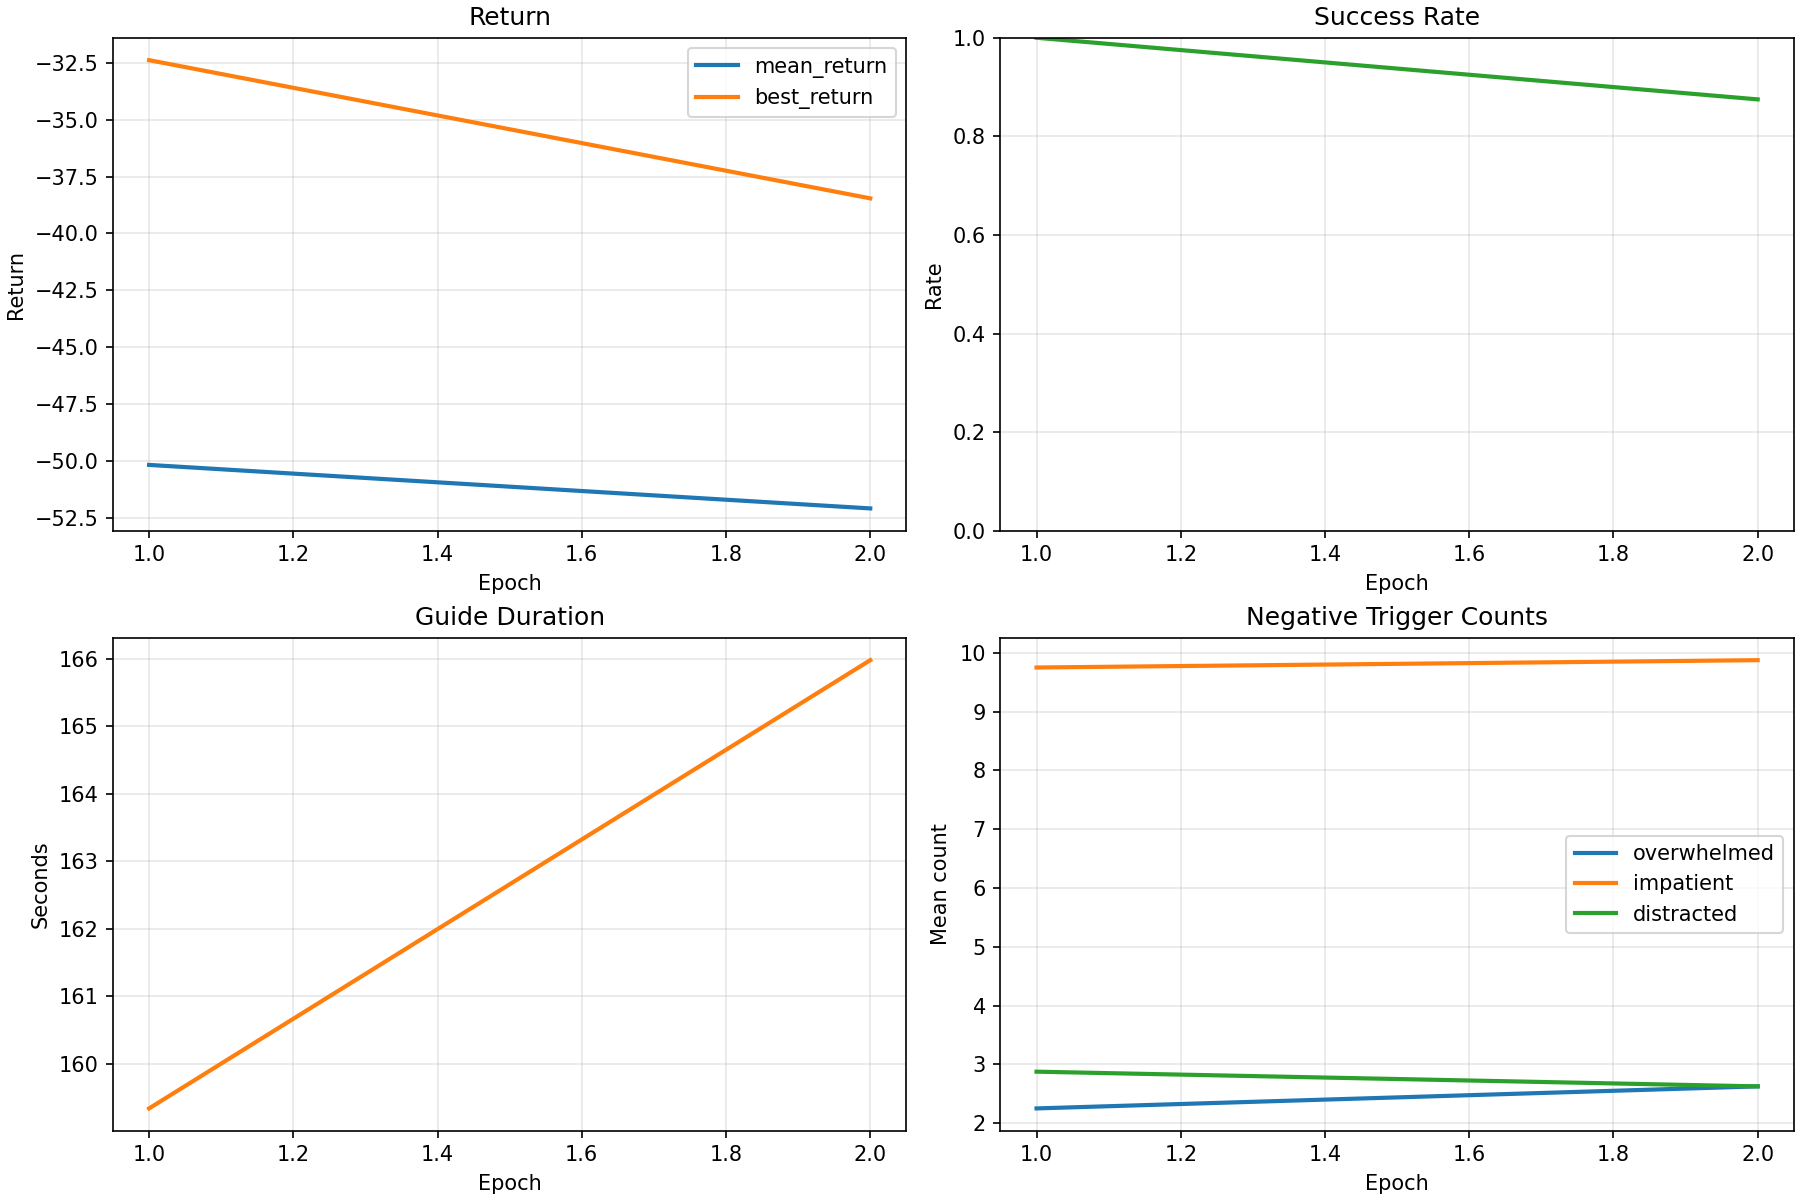
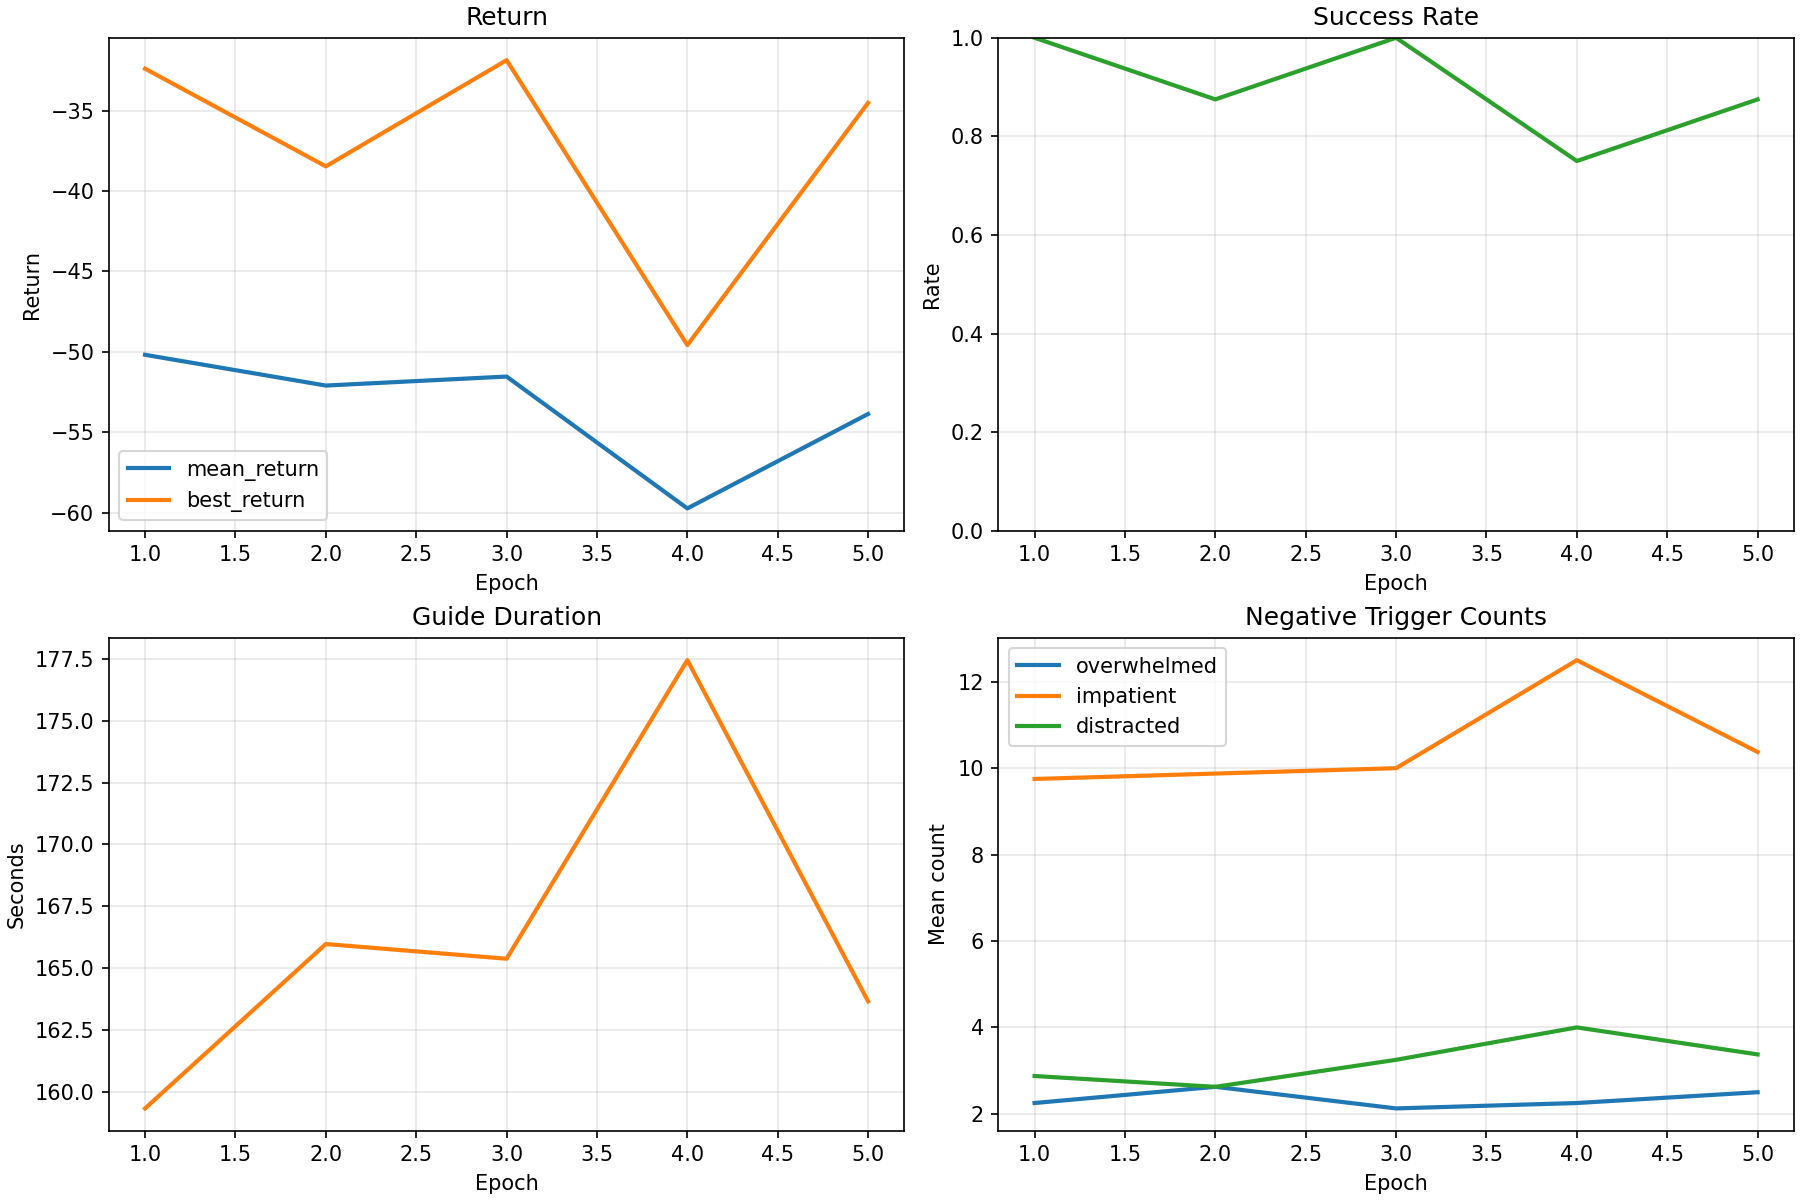
Move train_rwr to same path as test_env

diff --git a/museum_env_package/museum_env/test_train_rwr.py b/museum_env_package/museum_env/test_train_rwr.py
@@ -8,8 +8,9 @@ from unittest.mock import patch
 
 import numpy as np
 
-from museum_env.train_rwr import (
+from train_rwr import (
     DEFAULT_CSV_NAME,
+    DEFAULT_OUTPUT_DIR,
     DEFAULT_PLOT_NAME,
     EpisodeResult,
     ThetaEvaluation,
@@ -301,7 +302,7 @@ class TrainRwrTests(unittest.TestCase):
     def test_evaluate_theta_sample_aggregates_seeds_and_closes_env(self):
         theta = np.array([2.5, 3.5, 2.0, 0.7], dtype=np.float64)
 
-        with patch("museum_env.train_rwr.MuseumEnv", _FakeTrainingEnv):
+        with patch("train_rwr.MuseumEnv", _FakeTrainingEnv):
             evaluation = _evaluate_theta_sample((theta, (1, 2, 3), 15, False))
 
         self.assertAlmostEqual(evaluation.mean_return, -0.1, places=6)
@@ -328,9 +329,9 @@ class TrainRwrTests(unittest.TestCase):
             )
 
         with tempfile.TemporaryDirectory() as tmp_dir:
-            with patch("museum_env.train_rwr.ProcessPoolExecutor", _FakeExecutor):
+            with patch("train_rwr.ProcessPoolExecutor", _FakeExecutor):
                 with patch(
-                    "museum_env.train_rwr._evaluate_theta_sample",
+                    "train_rwr._evaluate_theta_sample",
                     side_effect=_fake_evaluate_theta_sample,
                 ):
                     metrics = train(
@@ -353,7 +354,7 @@ class TrainRwrTests(unittest.TestCase):
         with tempfile.TemporaryDirectory() as tmp_dir:
             output_dir = Path(tmp_dir) / "artifacts"
 
-            with patch("museum_env.train_rwr.MuseumEnv", _FakeTrainingEnv):
+            with patch("train_rwr.MuseumEnv", _FakeTrainingEnv):
                 exit_code = main(
                     [
                         "--epochs",
@@ -382,6 +383,12 @@ class TrainRwrTests(unittest.TestCase):
             self.assertEqual(rows[0]["epoch"], "1")
             self.assertIn("mean_return", rows[0])
             self.assertIn("success_rate", rows[0])
+
+    def test_default_output_dir_stays_under_repo_root(self):
+        self.assertEqual(
+            DEFAULT_OUTPUT_DIR,
+            Path("/home/tianci/Polimi/workspace/Master-Thesis/runs/rwr_minimal"),
+        )
 
 
 if __name__ == "__main__":

diff --git a/train_rwr.py b/train_rwr.py
@@ -3,14 +3,10 @@ from __future__ import annotations
 import argparse
 import csv
 import os
-import sys
 from concurrent.futures import ProcessPoolExecutor
 from dataclasses import dataclass
 from pathlib import Path
 from typing import Sequence
-
-if __package__ in {None, ""}:
-    sys.path.insert(0, str(Path(__file__).resolve().parents[1]))
 
 import matplotlib
 
@@ -22,7 +18,7 @@ import numpy as np
 from museum_env import MuseumEnv
 from museum_env.policy_search_params import PolicySearchParams
 
-REPO_ROOT = Path(__file__).resolve().parents[2]
+REPO_ROOT = Path(__file__).resolve().parent
 DEFAULT_EPOCHS = 30
 DEFAULT_SAMPLES_PER_EPOCH = 30
 DEFAULT_SEED = 42

diff --git a/museum_env_package/museum_env/env_constants.py b/museum_env_package/museum_env/env_constants.py
@@ -17,7 +17,7 @@ LISTENING_REPULSION_SCALE = 1.0
 LISTEN_REACHED_MIN_DISTANCE = 0.8
 LISTEN_INTRO_DELAY_SECONDS_DEFAULT = 3.0
 LISTEN_WAIT_SECONDS_DEFAULT = 30.0
-LISTEN_QUESTION_PROBABILITY_DEFAULT = 1.0
+LISTEN_QUESTION_PROBABILITY_DEFAULT = 0.2
 LISTEN_QUESTION_AFTER_EXPLANATION_PROBABILITY_DEFAULT = 0.50
 LISTEN_QUESTION_PAUSE_SECONDS_DEFAULT = 5.0
 LISTEN_QUESTION_TURN_YAW_RATE = 1.0

diff --git a/README.md b/README.md
@@ -90,7 +90,7 @@ if terminated or truncated:
 - Demo: `/home/tianci/Polimi/workspace/venv/bin/python test_env.py --mode demo`
 - Fast train loop: `/home/tianci/Polimi/workspace/venv/bin/python test_env.py --mode train`
 - Record video: `/home/tianci/Polimi/workspace/venv/bin/python test_env.py --mode record --use-timestamp-subfolder`
-- Minimal RWR training: `/home/tianci/Polimi/workspace/venv/bin/python museum_env_package/museum_env/train_rwr.py`
+- Minimal RWR training: `/home/tianci/Polimi/workspace/venv/bin/python train_rwr.py`
 
 The minimal RWR trainer writes:
 
